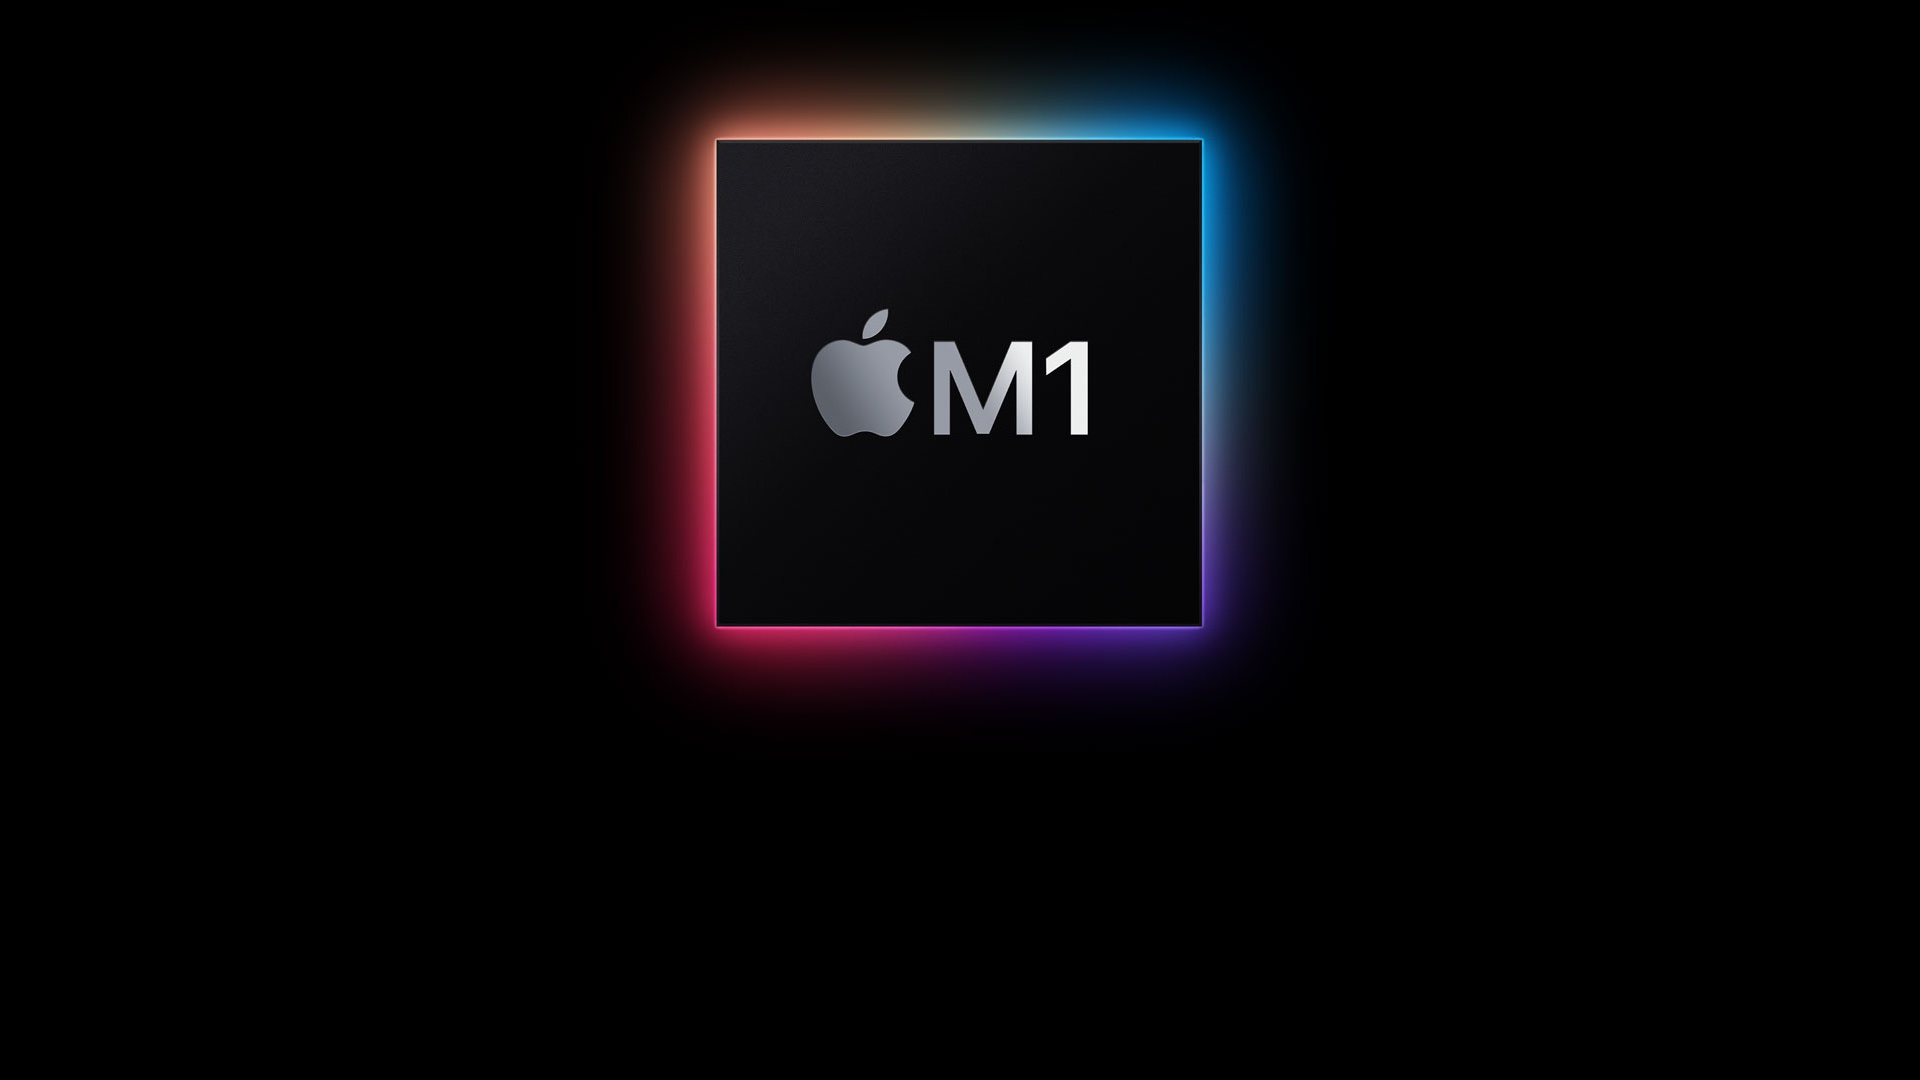
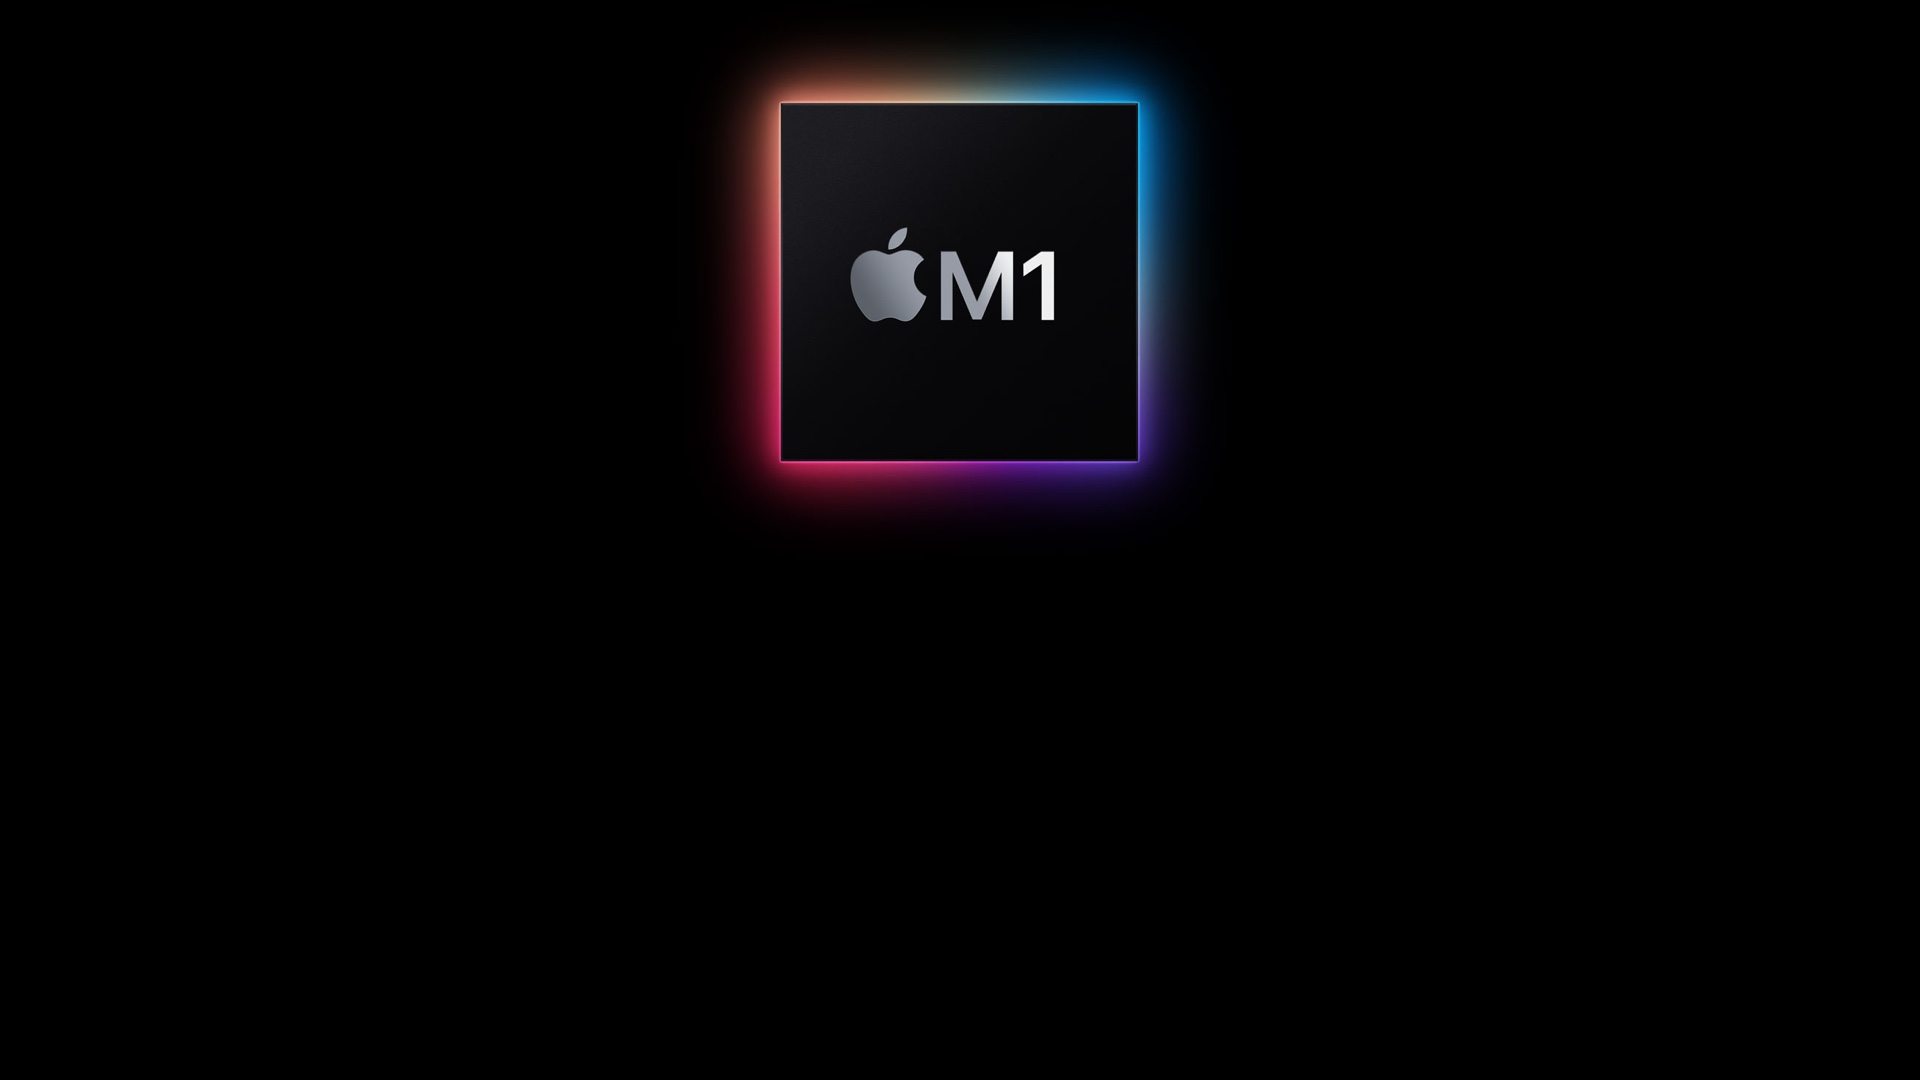
updated styles and text

Changed region(s): [[0.3125, 0.0306, 0.6875, 0.6722]]

diff --git a/index.html b/index.html
@@ -36,6 +36,7 @@
 			<div class="hero-body">
 				<div class="container has-text-centered">
 					<div class="column is-8 is-offset-2 is-6-widescreen is-offset-3-widescreen">
+						<div class="block-spacer"></div>
 						<p class="title is-1">M Bench - Coming Soon</p>
 						<div class="container area-center">
 							<!-- <div class="buttons is-centered">
@@ -61,10 +62,18 @@
 								</a>
 							</div> -->
 							<p class="subtitle is-4">
-								Quickly compare your mac or other current macs to Apple Silicon.
-								Apple's M1 chip is disrupting the entire computer industry and so this tool normalizes several popular benchmarks to the Apple M1. At only 10W, this chip is cheap and easy to make, so you'll be seeing it everywhere soon enough. 
-								Its the new standard, see how you compare.
-								COMING SOON, add your email to be the first to know when it goes live.
+								<div class="block subtitle is-4">
+									Quickly compare your mac or other current macs to Apple Silicon.
+								</div>
+								<div class="block subtitle is-4">
+									Apple's M1 chip is disrupting the entire computer industry and so this tool normalizes several popular benchmarks to the Apple M1. At only 10W, this chip is cheap and easy to make, so you'll be seeing it everywhere soon enough. 
+								</div>
+								<div class="block subtitle is-4">
+									Its the new standard, see how you compare.
+								</div>
+								<div class="block subtitle is-4">
+									COMING SOON, add your email to be the first to know when it goes live.
+								</div>
 							</p>
 							<br />
 						</div>

diff --git a/css/styles.css b/css/styles.css
@@ -66,6 +66,14 @@ a:hover {
   -o-animation: fadein 2s; /* Opera < 12.1 */
   animation: fadein 2s;
 }
+
+.block:not(:last-child) {
+  margin-bottom: 1.5rem;
+}
+.block-spacer {
+  margin-bottom: 400px
+}
+
 @keyframes fadein {
   from {
     opacity: 0;
